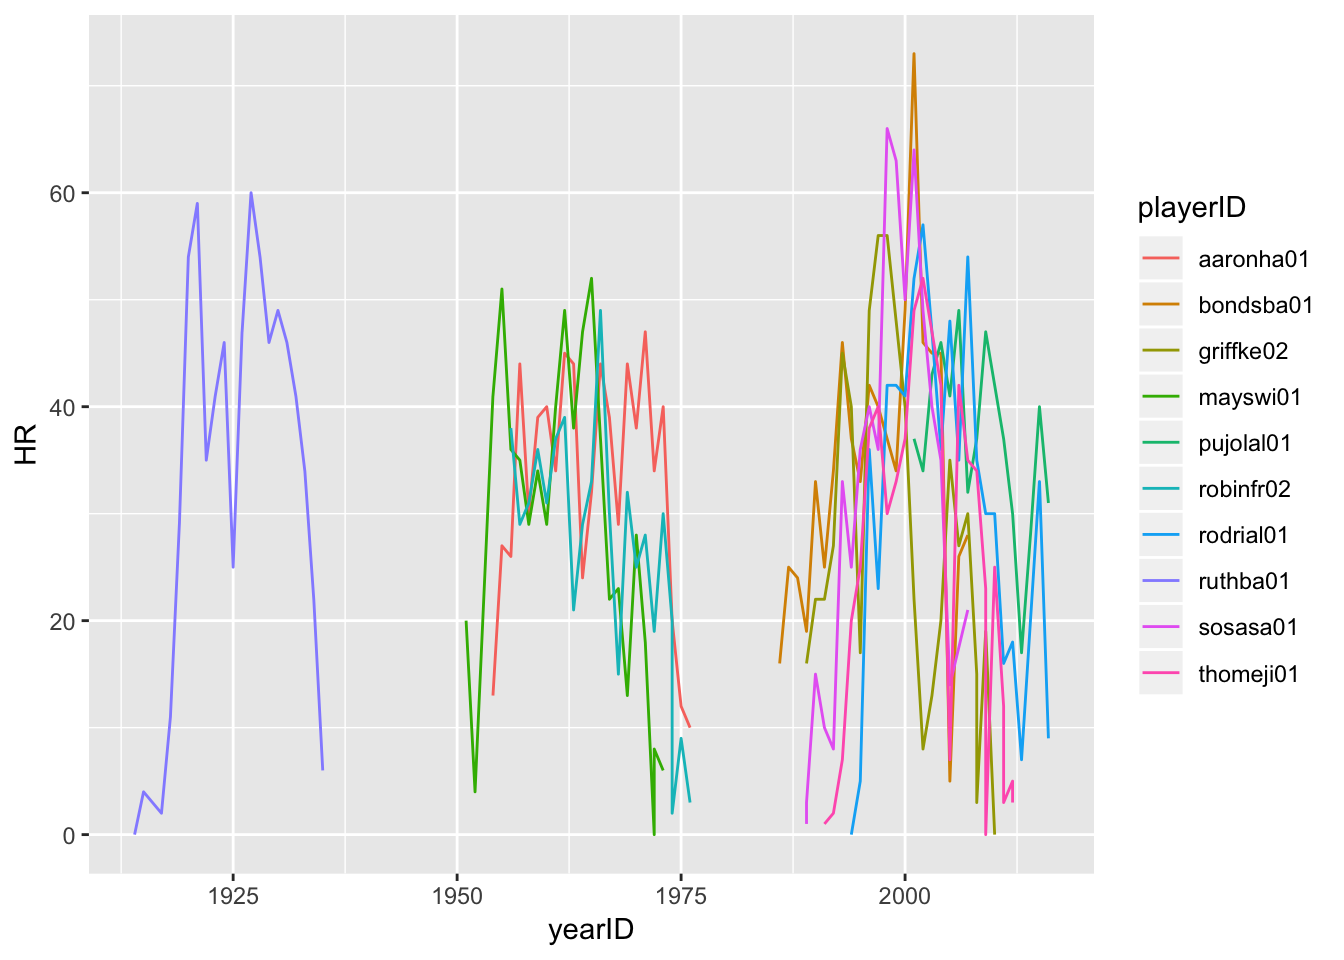
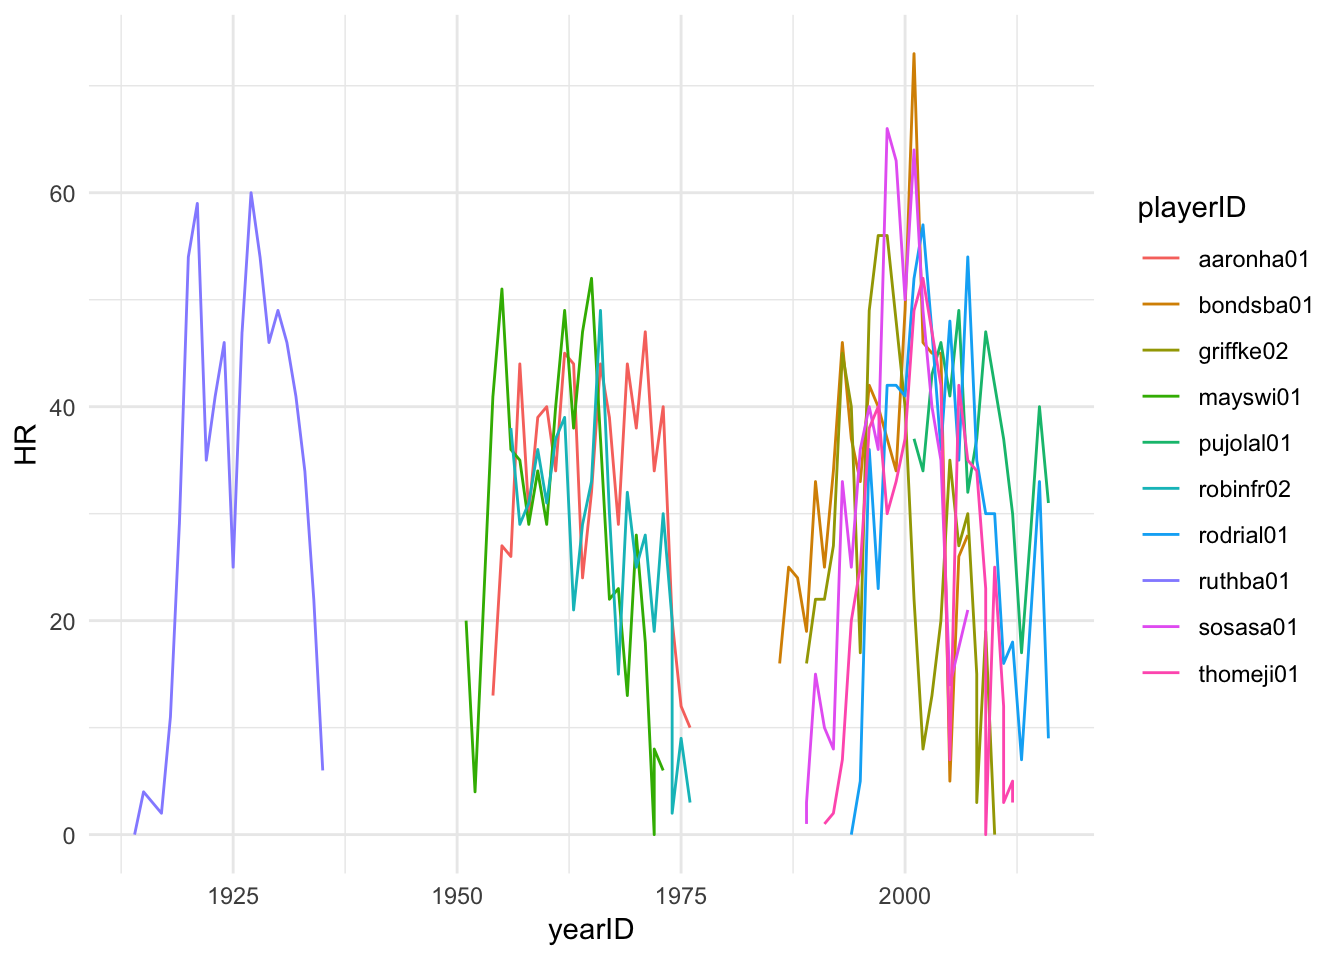
last chapters

diff --git a/facets-in-ggplot.html b/facets-in-ggplot.html
@@ -416,17 +416,20 @@ code > span.in { color: #60a0b0; font-weight: bold; font-style: italic; } /* Inf
 ## 217 thomeji01   2012  3</code></pre>
 <p>We could now plot the homerun performances;</p>
 <div class="sourceCode"><pre class="sourceCode r"><code class="sourceCode r"><span class="kw">ggplot</span>() <span class="op">+</span>
-<span class="st">  </span><span class="kw">geom_line</span>(<span class="dt">data=</span>topHitters,<span class="kw">aes</span>(<span class="dt">x=</span>yearID,<span class="dt">y=</span>HR,<span class="dt">group=</span>playerID,<span class="dt">color=</span>playerID))</code></pre></div>
+<span class="st">  </span><span class="kw">geom_line</span>(<span class="dt">data=</span>topHitters,<span class="kw">aes</span>(<span class="dt">x=</span>yearID,<span class="dt">y=</span>HR,<span class="dt">group=</span>playerID,<span class="dt">color=</span>playerID)) <span class="op">+</span>
+<span class="st">  </span><span class="kw">theme_minimal</span>()</code></pre></div>
 <p><img src="bookdown-demo_files/figure-html/unnamed-chunk-43-1.png" width="672" /></p>
 <p>The three distinct group is certainly interesting! Otherwise, it is a bit of a mess. But we can use faceting to give a clearer presentation:</p>
 <div class="sourceCode"><pre class="sourceCode r"><code class="sourceCode r"><span class="kw">ggplot</span>() <span class="op">+</span>
 <span class="st">  </span><span class="kw">geom_line</span>(<span class="dt">data=</span>topHitters,<span class="kw">aes</span>(<span class="dt">x=</span>yearID,<span class="dt">y=</span>HR,<span class="dt">group=</span>playerID,<span class="dt">color=</span>playerID)) <span class="op">+</span>
-<span class="st">  </span><span class="kw">facet_grid</span>(playerID<span class="op">~</span>.)</code></pre></div>
+<span class="st">  </span><span class="kw">facet_grid</span>(playerID<span class="op">~</span>.) <span class="op">+</span>
+<span class="st">  </span><span class="kw">theme_minimal</span>()</code></pre></div>
 <p><img src="bookdown-demo_files/figure-html/unnamed-chunk-44-1.png" width="672" /></p>
 <p>If you wanted to layout the plots horizontally, you can use .~playerID, but in this case it does not look very good.</p>
 <div class="sourceCode"><pre class="sourceCode r"><code class="sourceCode r"><span class="kw">ggplot</span>() <span class="op">+</span>
 <span class="st">  </span><span class="kw">geom_line</span>(<span class="dt">data=</span>topHitters,<span class="kw">aes</span>(<span class="dt">x=</span>yearID,<span class="dt">y=</span>HR,<span class="dt">group=</span>playerID,<span class="dt">color=</span>playerID)) <span class="op">+</span>
-<span class="st">  </span><span class="kw">facet_wrap</span>(<span class="op">~</span>playerID)</code></pre></div>
+<span class="st">  </span><span class="kw">facet_wrap</span>(<span class="op">~</span>playerID) <span class="op">+</span>
+<span class="st">  </span><span class="kw">theme_minimal</span>()</code></pre></div>
 <p><img src="bookdown-demo_files/figure-html/unnamed-chunk-45-1.png" width="672" /></p>
 <p>Here the plots are simply wrapped around, so there is no concept of vertical or horizontal.</p>
 

diff --git a/putting-all-together.html b/putting-all-together.html
@@ -204,7 +204,8 @@ code > span.in { color: #60a0b0; font-weight: bold; font-style: italic; } /* Inf
 ## 11 stennre01PIT       38     4037 pirates
 ## 12 taverfr01PIT        1     2476 pirates
 ## 13  ziskri01PIT       69     2006 pirates</code></pre>
-<p>Note that we have added a team in the summarize step. That is because we will now stack these data frames vertically, and we want to be able to distinguish between phillies and pirates records. You can stack the dataframes this way:</p>
+<p>There are a few new ideas here. First, we have used <strong>mutate</strong> to create two new columns. We created the “playerTeam” column by pasting the teamID onto the playerID. We did this because there is one player who played for both teams during the ’70’s and we need to have distinct categories. So “playerTeam” will be our category column instead of “playerID”. We have also added a “team” column so that we can easily distinguish between Phillies and Pirate records when plotting.</p>
+<p>We can now stack the two data frames in this way:</p>
 <div class="sourceCode"><pre class="sourceCode r"><code class="sourceCode r">philsPirates &lt;-<span class="st"> </span><span class="kw">rbind</span>(phils,pirates) <span class="op">%&gt;%</span>
 <span class="st">                  </span><span class="kw">arrange</span>(decadeHR)
 
@@ -243,6 +244,7 @@ philsPirates<span class="op">$</span>playerTeam &lt;-<span class="st"> </span><s
 <span class="st">  </span><span class="kw">theme_minimal</span>() <span class="op">+</span>
 <span class="st">  </span><span class="kw">coord_flip</span>()</code></pre></div>
 <p><img src="bookdown-demo_files/figure-html/unnamed-chunk-59-1.png" width="672" /></p>
+<p>Finally, we can try faceting:</p>
 <div class="sourceCode"><pre class="sourceCode r"><code class="sourceCode r"><span class="kw">ggplot</span>()<span class="op">+</span>
 <span class="st">  </span><span class="kw">geom_bar</span>(<span class="dt">data=</span>philsPirates,<span class="kw">aes</span>(<span class="dt">x=</span>playerTeam,<span class="dt">y=</span>decadeHR,<span class="dt">color=</span>team,<span class="dt">fill=</span>team),
            <span class="dt">stat=</span>(<span class="st">&quot;identity&quot;</span>)) <span class="op">+</span>
@@ -252,6 +254,7 @@ philsPirates<span class="op">$</span>playerTeam &lt;-<span class="st"> </span><s
 <span class="st">  </span><span class="kw">coord_flip</span>() <span class="op">+</span>
 <span class="st">  </span><span class="kw">facet_grid</span>(.<span class="op">~</span>team)</code></pre></div>
 <p><img src="bookdown-demo_files/figure-html/unnamed-chunk-60-1.png" width="672" /></p>
+<p>Of course, the plot would be better had we used names instead of playerID as the categories.</p>
 
 </div>
             </section>
